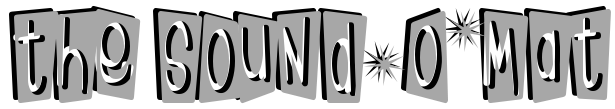
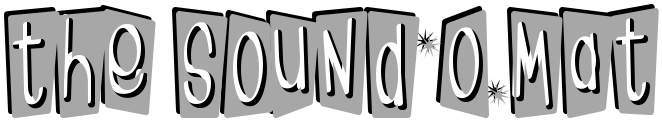
Standardizing headers

diff --git a/sound-o-mat/assets/mobirise/css/mbr-additional.css b/sound-o-mat/assets/mobirise/css/mbr-additional.css
@@ -1512,6 +1512,9 @@ body {
   padding-bottom: 90px;
   background-image: url("../../../assets/images/mid-century-modern-1300x1300.jpg");
 }
+.cid-ruTzqGmZXs h2 img {
+  margin: 0 auto;
+}
 .cid-ruTzqGmZXs img.web {
   display: block;
 }
@@ -1538,6 +1541,9 @@ body {
 .cid-rvjn147C6I h1 {
   color: #000000;
 }
+.cid-rvjn147C6I img {
+  margin: 0 auto;
+}
 .cid-rvjn147C6I img.web {
   display: block;
 }
@@ -1562,8 +1568,25 @@ body {
   background-image: url("../../../assets/images/temporama-800x800.jpg");
   display: none;
 }
-.cid-rvpUU4HwEL H1 {
+.cid-rvpUU4HwEL h1 {
   color: #000000;
+}
+.cid-rvpUU4HwEL img {
+  margin: 0 auto;
+}
+.cid-rvpUU4HwEL img.web {
+  display: block;
+}
+.cid-rvpUU4HwEL img.mobile {
+  display: none;
+}
+@media only screen and (max-width: 800px) {
+  .cid-rvpUU4HwEL img.web {
+    display: none;
+  }
+  .cid-rvpUU4HwEL img.mobile {
+    display: block;
+  }
 }
 .cid-rvpUU4HwEL .mbr-text,
 .cid-rvpUU4HwEL .mbr-section-btn {
@@ -2846,18 +2869,20 @@ body {
   padding-top: 30px;
   padding-bottom: 30px;
   background-color: #ffffff;
-  background-image: url("../../../assets/images/wallpaper03.jpg");
+  background-image: url("../../../assets/images/apollo11-lem.jpg");
 }
 .cid-rwk4uOwNjD .counter-container {
-  color: #ffffff;
+  color: #000000;
 }
 .cid-rwk4uOwNjD .counter-container ul {
   margin-bottom: 0;
+  padding-left: 200px;
+  padding-top: 100px;
+  padding-bottom: 100px;
 }
 .cid-rwk4uOwNjD .counter-container ul li {
   margin-bottom: 0.1rem;
-  margin-left: 0.4rem;
 }
 .cid-rwk4uOwNjD .counter-container ul li a {
-  color: #ffffff;
+  color: #000000;
 }

diff --git a/sound-o-mat/index.html b/sound-o-mat/index.html
@@ -70,10 +70,10 @@
     <div class="container align-center">
       <div class="row justify-content-md-center">
         <div class="mbr-white col-md-10">
-          <h1 class="mbr-section-title mbr-bold pb-3 mbr-fonts-style display-1">
+          <h2 class="mbr-section-title mbr-bold pb-3 mbr-fonts-style display-1">
 	    <img class="web" src="assets/images/titles/the-sound-o-mat.png" alt="The Sound-O-Mat" title="The Sound-O-Mat">
 	    <img class="mobile" src="assets/images/titles/the-sound-o-mat-sm.png" alt="The Sound-O-Mat" title="The Sound-O-Mat">
-	  </h1>
+	  </h2>
           <p class="mbr-text pb-3 mbr-fonts-style display-6">The Sound-O-Mat (1998-2016) was a small audio engineering, post-production &amp; mastering studio plus a boutique record label that specialized in<br>ambient/drone, avant guarde, indie and folk music. I also provided cleaning, repair &nbsp;&amp; restoration services as well as parts and supplies for various tape echo units.<br><br>I still provide post-production and mastering services on a contract basis, and will probably release more albums on the label some day.</p>
         </div>
       </div>

diff --git a/sound-o-mat/discog.html b/sound-o-mat/discog.html
@@ -158,7 +158,7 @@
 	      </div>
 
 	      <div class="mbr-gallery-item mbr-gallery-item--p1">
-		<a href="https://www.discogs.com/label/1663315-Music-For-Seances"><img src="img/mfs/mfs-logo-250x250.jpg" alt="The Sound-O-Mat: Music for Seances" title="The Sound-O-Mat: Music for Seances"></a>
+		<a href="https://www.discogs.com/label/1663315-Music-For-Seances"><img src="assets/images/mfs-logo-250x250.jpg" alt="The Sound-O-Mat: Music for Seances" title="The Sound-O-Mat: Music for Seances"></a>
 		<span align="center" class="mbr-gallery-title mbr-fonts-style display-7"><br>Music for Seances series (2003)</span>
 	      </div>
 
